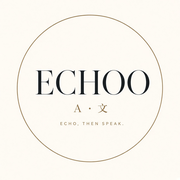
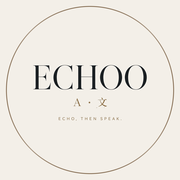
Center the ECHOO seal so the ring and type share one axis.
The old mark sat high and right inside an uneven crop, so the circular
avatar clipped a halo around a drifted wordmark. Rebuild the lockup on a
perfect circle and size the login seal so the alignment is readable.

diff --git a/frontend/src/index.css b/frontend/src/index.css
@@ -235,10 +235,11 @@ input, select, textarea {
 }
 
 .brand-seal {
-  width: 7.5rem;
-  height: 7.5rem;
+  display: block;
+  width: 9rem;
+  height: 9rem;
   border-radius: 50%;
-  object-fit: cover;
+  object-fit: contain;
   box-shadow: 0 10px 24px rgba(70, 62, 54, 0.12);
 }
 .brand-seal-sm {
